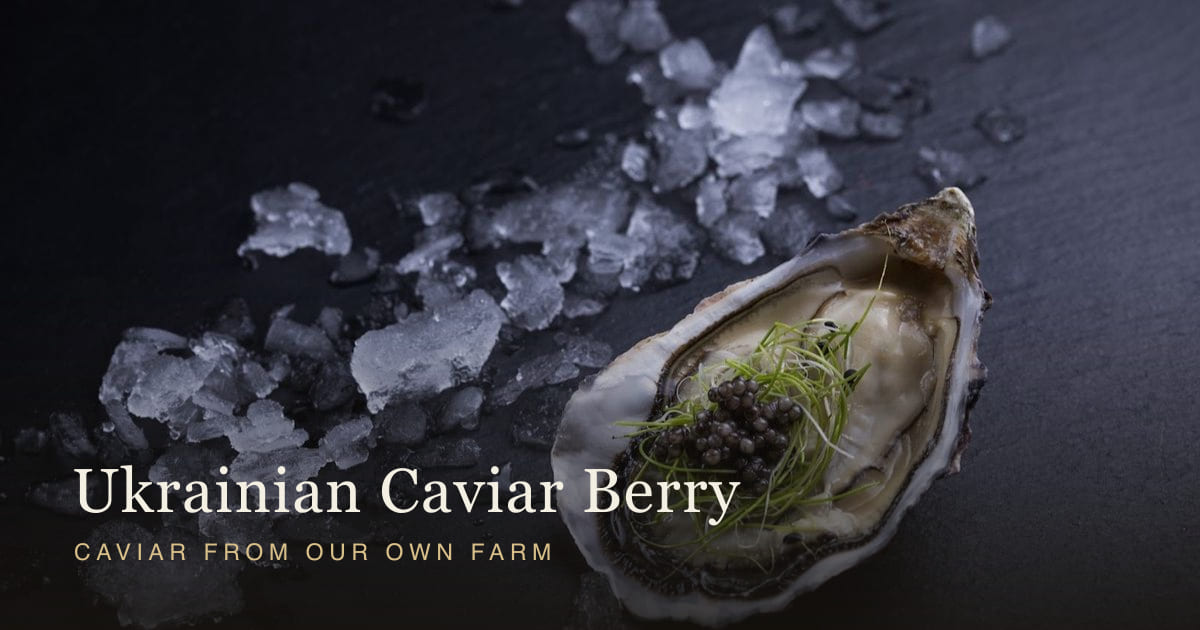
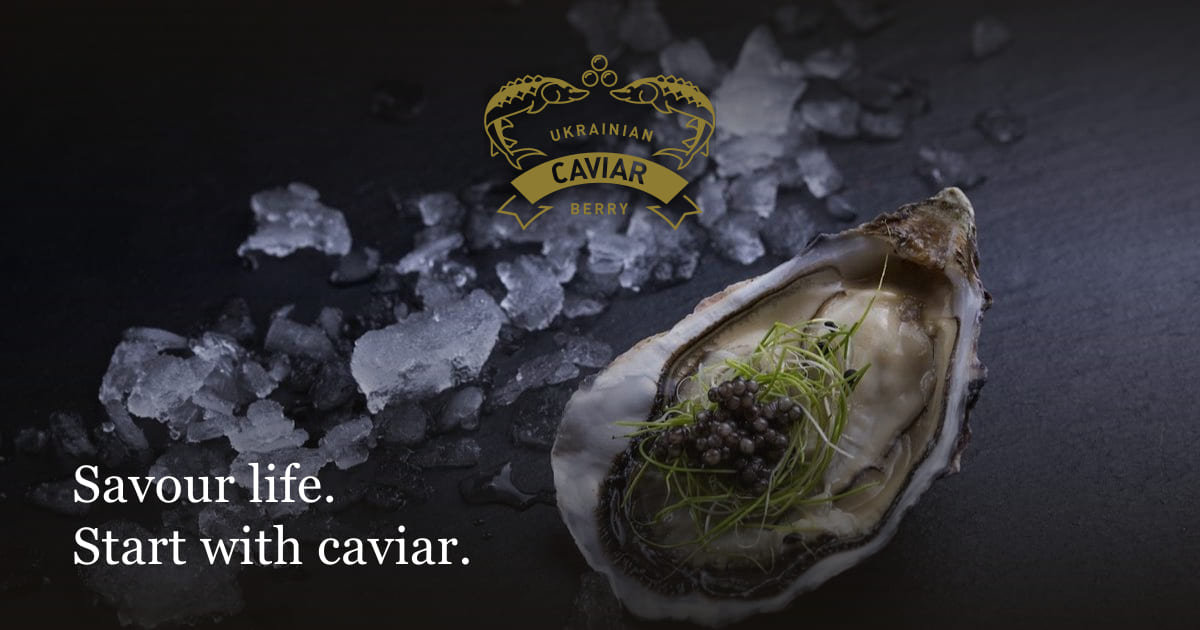
Stop calling gift sets products and send old locale URLs home

Changed region(s): [[0.4008, 0.0, 1.0, 0.3619], [0.0617, 0.7238, 0.6167, 0.9048]]

diff --git a/scripts/build-social-preview.ts b/scripts/build-social-preview.ts
@@ -22,33 +22,51 @@ const dryRun = process.argv.includes("--dry-run");
 const width = 1200;
 const height = 630;
 
-const wordmark = (title: string, tagline: string) => `
+/**
+ * The emblem sits centred at the top, the way the header carries it over the
+ * hero on a desktop; the line underneath is the promise, in white. The site
+ * name is deliberately absent — every scraper prints it next to the image from
+ * `og:site_name` and the title, so putting it in the picture only repeats it.
+ */
+const caption = (lines: readonly string[]) => `
 <svg width="${width}" height="${height}" viewBox="0 0 ${width} ${height}" xmlns="http://www.w3.org/2000/svg">
   <defs>
     <linearGradient id="shade" x1="0" y1="1" x2="0" y2="0">
-      <stop offset="0" stop-color="#17140f" stop-opacity="0.82"/>
-      <stop offset="0.55" stop-color="#17140f" stop-opacity="0.3"/>
+      <stop offset="0" stop-color="#17140f" stop-opacity="0.86"/>
+      <stop offset="0.55" stop-color="#17140f" stop-opacity="0.34"/>
+      <stop offset="1" stop-color="#17140f" stop-opacity="0"/>
+    </linearGradient>
+    <linearGradient id="crown" x1="0" y1="0" x2="0" y2="1">
+      <stop offset="0" stop-color="#17140f" stop-opacity="0.74"/>
       <stop offset="1" stop-color="#17140f" stop-opacity="0"/>
     </linearGradient>
   </defs>
+  <rect x="0" y="0" width="${width}" height="${height * 0.42}" fill="url(#crown)"/>
   <rect x="0" y="${height * 0.42}" width="${width}" height="${height * 0.58}" fill="url(#shade)"/>
-  <text x="72" y="${height - 118}" fill="#f4efe3"
-        font-family="Georgia, 'Times New Roman', serif" font-size="62" letter-spacing="1.5">${title}</text>
-  <text x="74" y="${height - 70}" fill="#d9c08a"
-        font-family="Helvetica, Arial, sans-serif" font-size="23" letter-spacing="5.6">${tagline}</text>
+${lines
+  .map(
+    (line, index) =>
+      `  <text x="${textLeft}" y="${height - 128 + index * 62}" fill="#ffffff"
+        font-family="Georgia, 'Times New Roman', serif" font-size="52" letter-spacing="0.5">${line}</text>`,
+  )
+  .join("\n")}
 </svg>`;
 
+/**
+ * The oyster and the roe own the right half of the frame from about x=560, and
+ * they are the reason anyone looks twice. The caption therefore stays in the
+ * lower left, over bare slate, and breaks into two short lines rather than
+ * running across the shell.
+ */
+const textLeft = 72;
+
+/** Scaled from the 114x87 emblem the header uses, kept at that exact ratio. */
+const emblemWidth = 232;
+const emblemHeight = Math.round((emblemWidth * 87) / 114);
+
 const previews = [
-  {
-    locale: "ua",
-    title: "Ukrainian Caviar Berry",
-    tagline: "ІКРА ВЛАСНОГО ВИРОБНИЦТВА",
-  },
-  {
-    locale: "en",
-    title: "Ukrainian Caviar Berry",
-    tagline: "CAVIAR FROM OUR OWN FARM",
-  },
+  { locale: "ua", lines: ["Смакуйте життя.", "Почніть з ікри"] },
+  { locale: "en", lines: ["Savour life.", "Start with caviar."] },
 ];
 
 async function main() {
@@ -58,11 +76,42 @@ async function main() {
     .resize(width, height, { fit: "cover", position: "centre" })
     .toBuffer();
 
-  for (const { locale, title, tagline } of previews) {
+  const emblem = await sharp(
+    path.join(root, "public/assets/img/logo-emblem.svg"),
+  )
+    .resize(emblemWidth, emblemHeight, {
+      fit: "contain",
+      background: { r: 0, g: 0, b: 0, alpha: 0 },
+    })
+    .png()
+    .toBuffer();
+  /**
+   * The gold sits over crushed ice, which is the one bright thing in the frame
+   * and exactly where the wordmark lost its edges. A blurred black copy of the
+   * emblem underneath separates it from whatever it lands on, without the hard
+   * rectangle a plain backing plate would show.
+   */
+  const emblemShadow = await sharp(emblem)
+    .linear(0, 0)
+    .blur(14)
+    .png()
+    .toBuffer();
+
+  for (const { locale, lines } of previews) {
     const file = path.join(outputDir, `preview-${locale}.jpg`);
     const image = await sharp(frame)
       .composite([
-        { input: Buffer.from(wordmark(title, tagline)), top: 0, left: 0 },
+        { input: Buffer.from(caption(lines)), top: 0, left: 0 },
+        {
+          input: emblemShadow,
+          top: 60,
+          left: Math.round((width - emblemWidth) / 2),
+        },
+        {
+          input: emblem,
+          top: 54,
+          left: Math.round((width - emblemWidth) / 2),
+        },
       ])
       // Quality 82 keeps the gradient clean; scrapers cap previews around 1 MB.
       .jpeg({ quality: 82, chromaSubsampling: "4:4:4", mozjpeg: true })

diff --git a/next.config.ts b/next.config.ts
@@ -28,16 +28,24 @@ const config: NextConfig = {
   serverExternalPackages: ["@google-cloud/firestore"],
   experimental: { globalNotFound: true },
   /**
-   * The WordPress site served Ukrainian under `/uk`; this one uses `/ua`.
-   * Without these, every Ukrainian address Google indexed over the years dies
-   * as a 404 and its weight is lost — the English side was spared only because
-   * `/en` happened to match. Declared here rather than in the proxy so the edge
-   * answers them without waking a function.
+   * The WordPress site served Ukrainian under `/uk` and Russian under `/ru`;
+   * this one has `/ua` and `/en`. Ten of the twelve clicks Search still sends
+   * us land on those old addresses, so without this they land on nothing.
+   *
+   * Everything goes to the home page rather than a guessed equivalent. The old
+   * paths share no structure with the new ones, so a per-page map would be a
+   * growing list of special cases that still misses whatever turns up next in
+   * Search Console. These two lines cover the whole of both old locales and
+   * never need touching again.
+   *
+   * The trade-off, stated plainly: Google reads a redirect to an unrelated page
+   * as a soft 404 and drops the URL. It would drop a plain 404 just the same —
+   * the difference is that this way a visitor still arrives somewhere.
    */
   redirects() {
     return [
-      { source: "/uk", destination: "/ua", permanent: true },
-      { source: "/uk/:path*", destination: "/ua/:path*", permanent: true },
+      { source: "/:locale(uk|ru)", destination: "/ua", permanent: true },
+      { source: "/:locale(uk|ru)/:path*", destination: "/ua", permanent: true },
     ];
   },
   images: {

diff --git a/src/domain/structured-data.ts b/src/domain/structured-data.ts
@@ -190,16 +190,15 @@ export function giftListSchema(input: {
     name: input.name,
     url: absolute(input.origin, input.path),
     numberOfItems: input.gifts.length,
+    // Listed, not sold: a manager assembles each set after a request, so there
+    // is no price and no stock to offer. Calling them `Product` made Google
+    // demand `offers` and mark all nine entries invalid — and it was right to,
+    // because a product snippet promises something you can buy.
     itemListElement: input.gifts.map((gift, index) => ({
       "@type": "ListItem",
       position: index + 1,
-      item: {
-        "@type": "Product",
-        name: gift.name,
-        sku: gift.key,
-        ...(gift.image && { image: absolute(input.origin, gift.image) }),
-        brand: { "@type": "Brand", name: "Ukrainian Caviar Berry" },
-      },
+      name: gift.name,
+      ...(gift.image && { image: absolute(input.origin, gift.image) }),
     })),
   };
 }

diff --git a/tests/unit/structured-data.test.ts b/tests/unit/structured-data.test.ts
@@ -147,6 +147,11 @@ test("questions, crumbs and gifts describe only what the page really offers", ()
   const serialized = JSON.stringify(gifts);
   assert.ok(!serialized.includes("Offer"));
   assert.ok(!serialized.includes("price"));
+  // Nor a Product: Google requires an offer on every one, and rightly so —
+  // these are assembled on request, so there is nothing to put a price on.
+  assert.ok(!serialized.includes("Product"), serialized);
+  const first = (gifts.itemListElement as Record<string, unknown>[])[0]!;
+  assert.equal(first.name, "Дегустаційний набір");
 });
 
 test("a catalogue description cannot close the script tag it travels in", () => {
